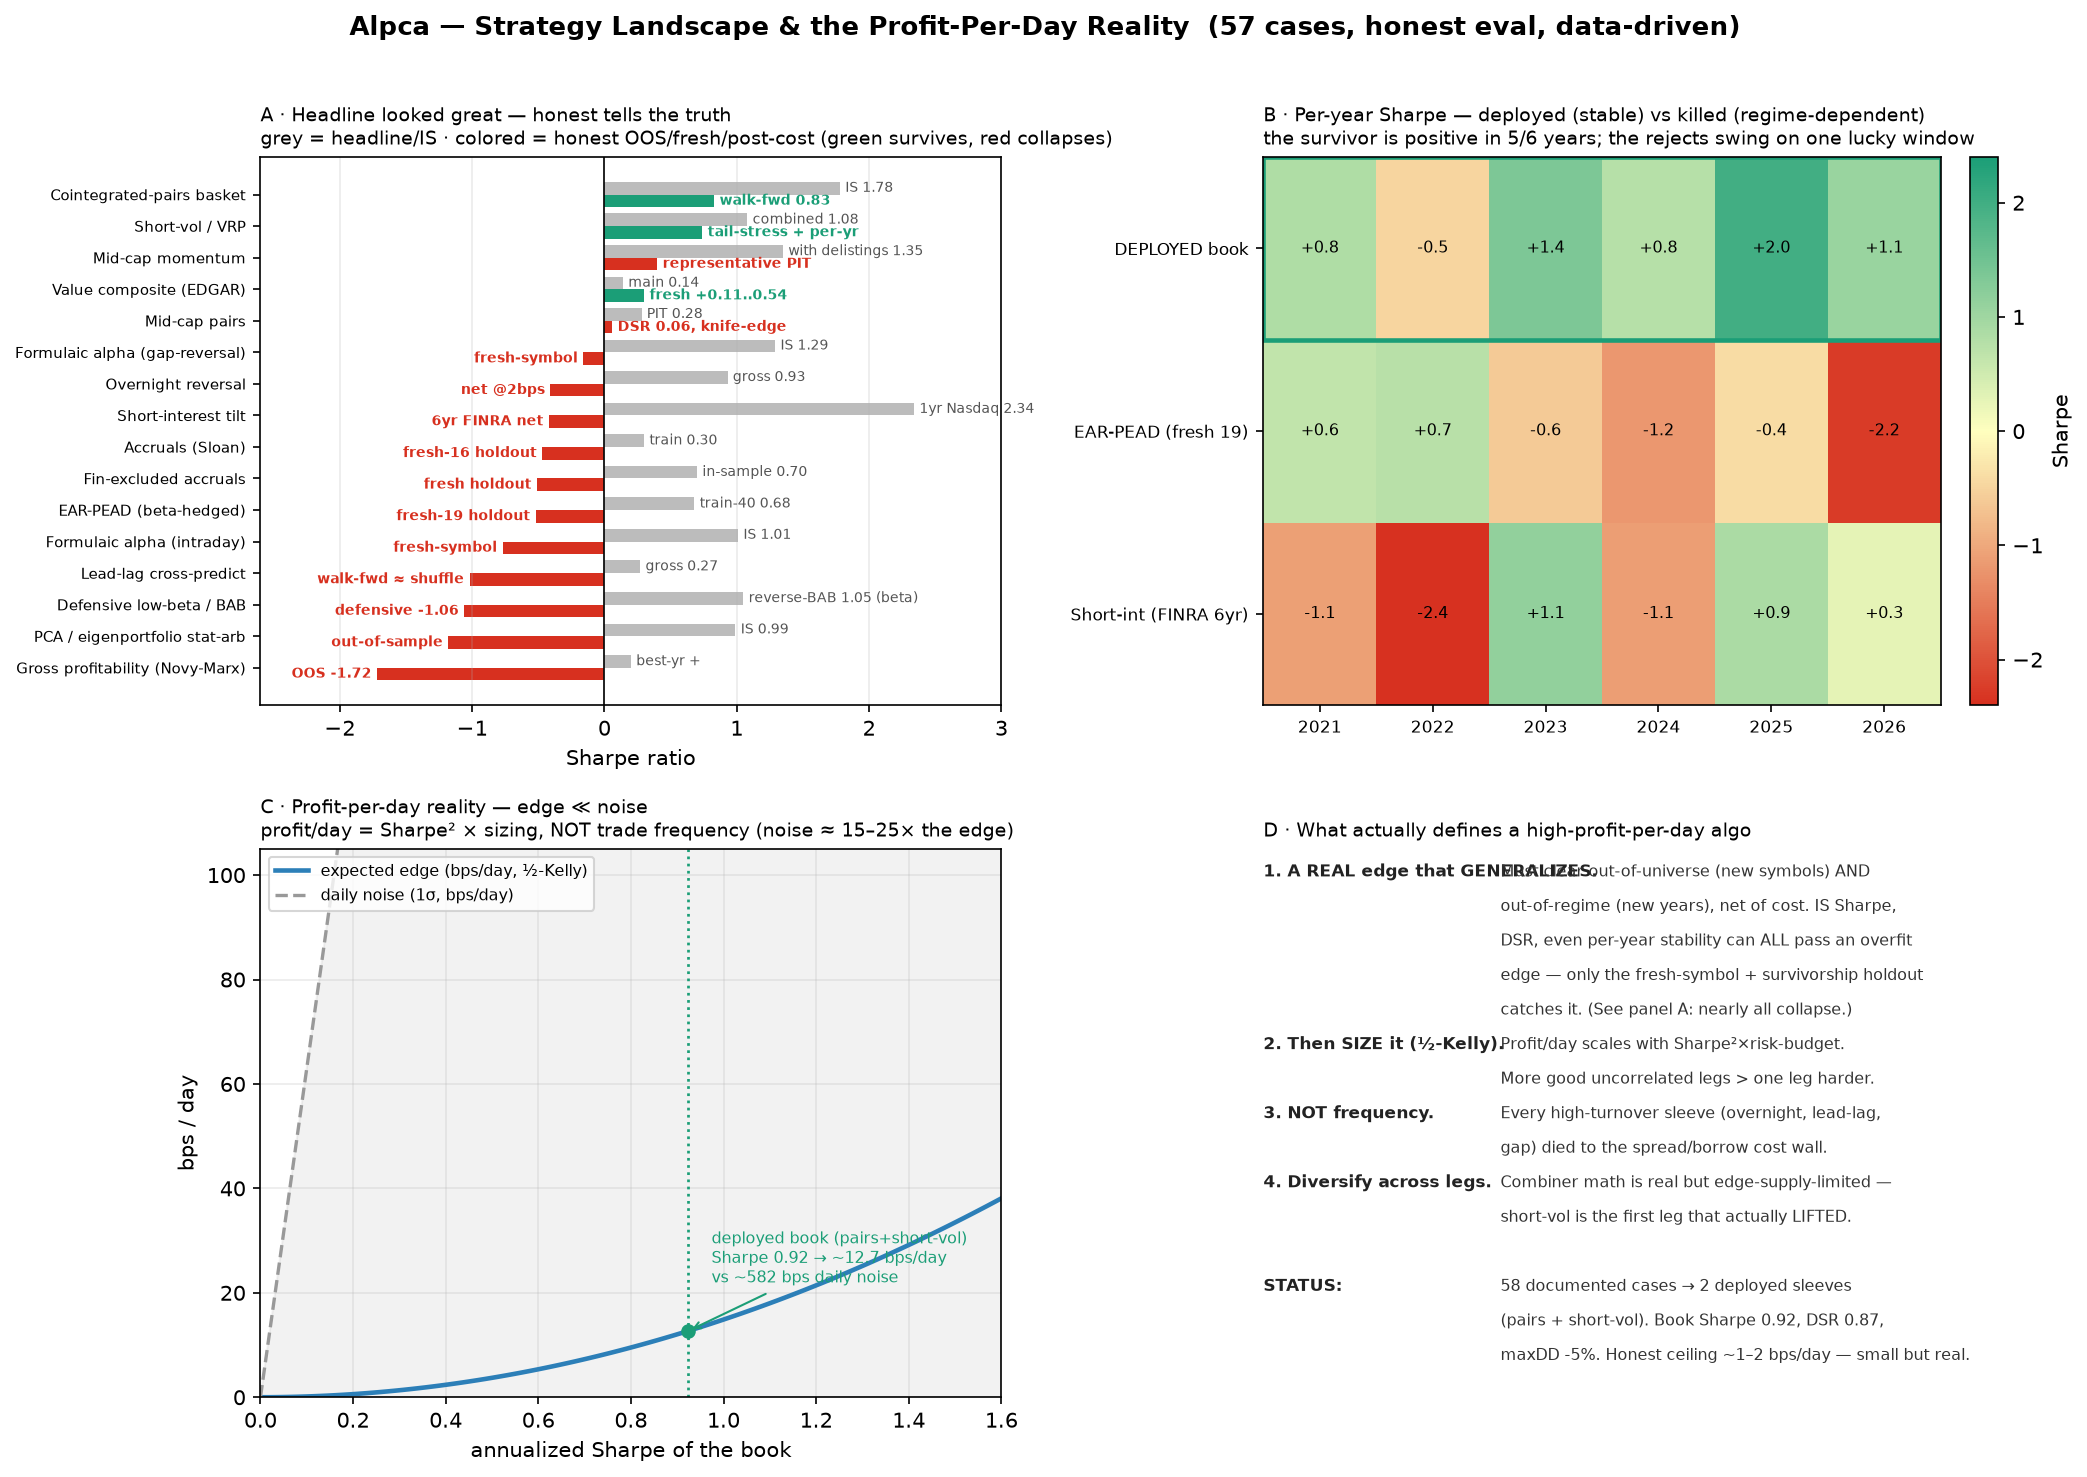
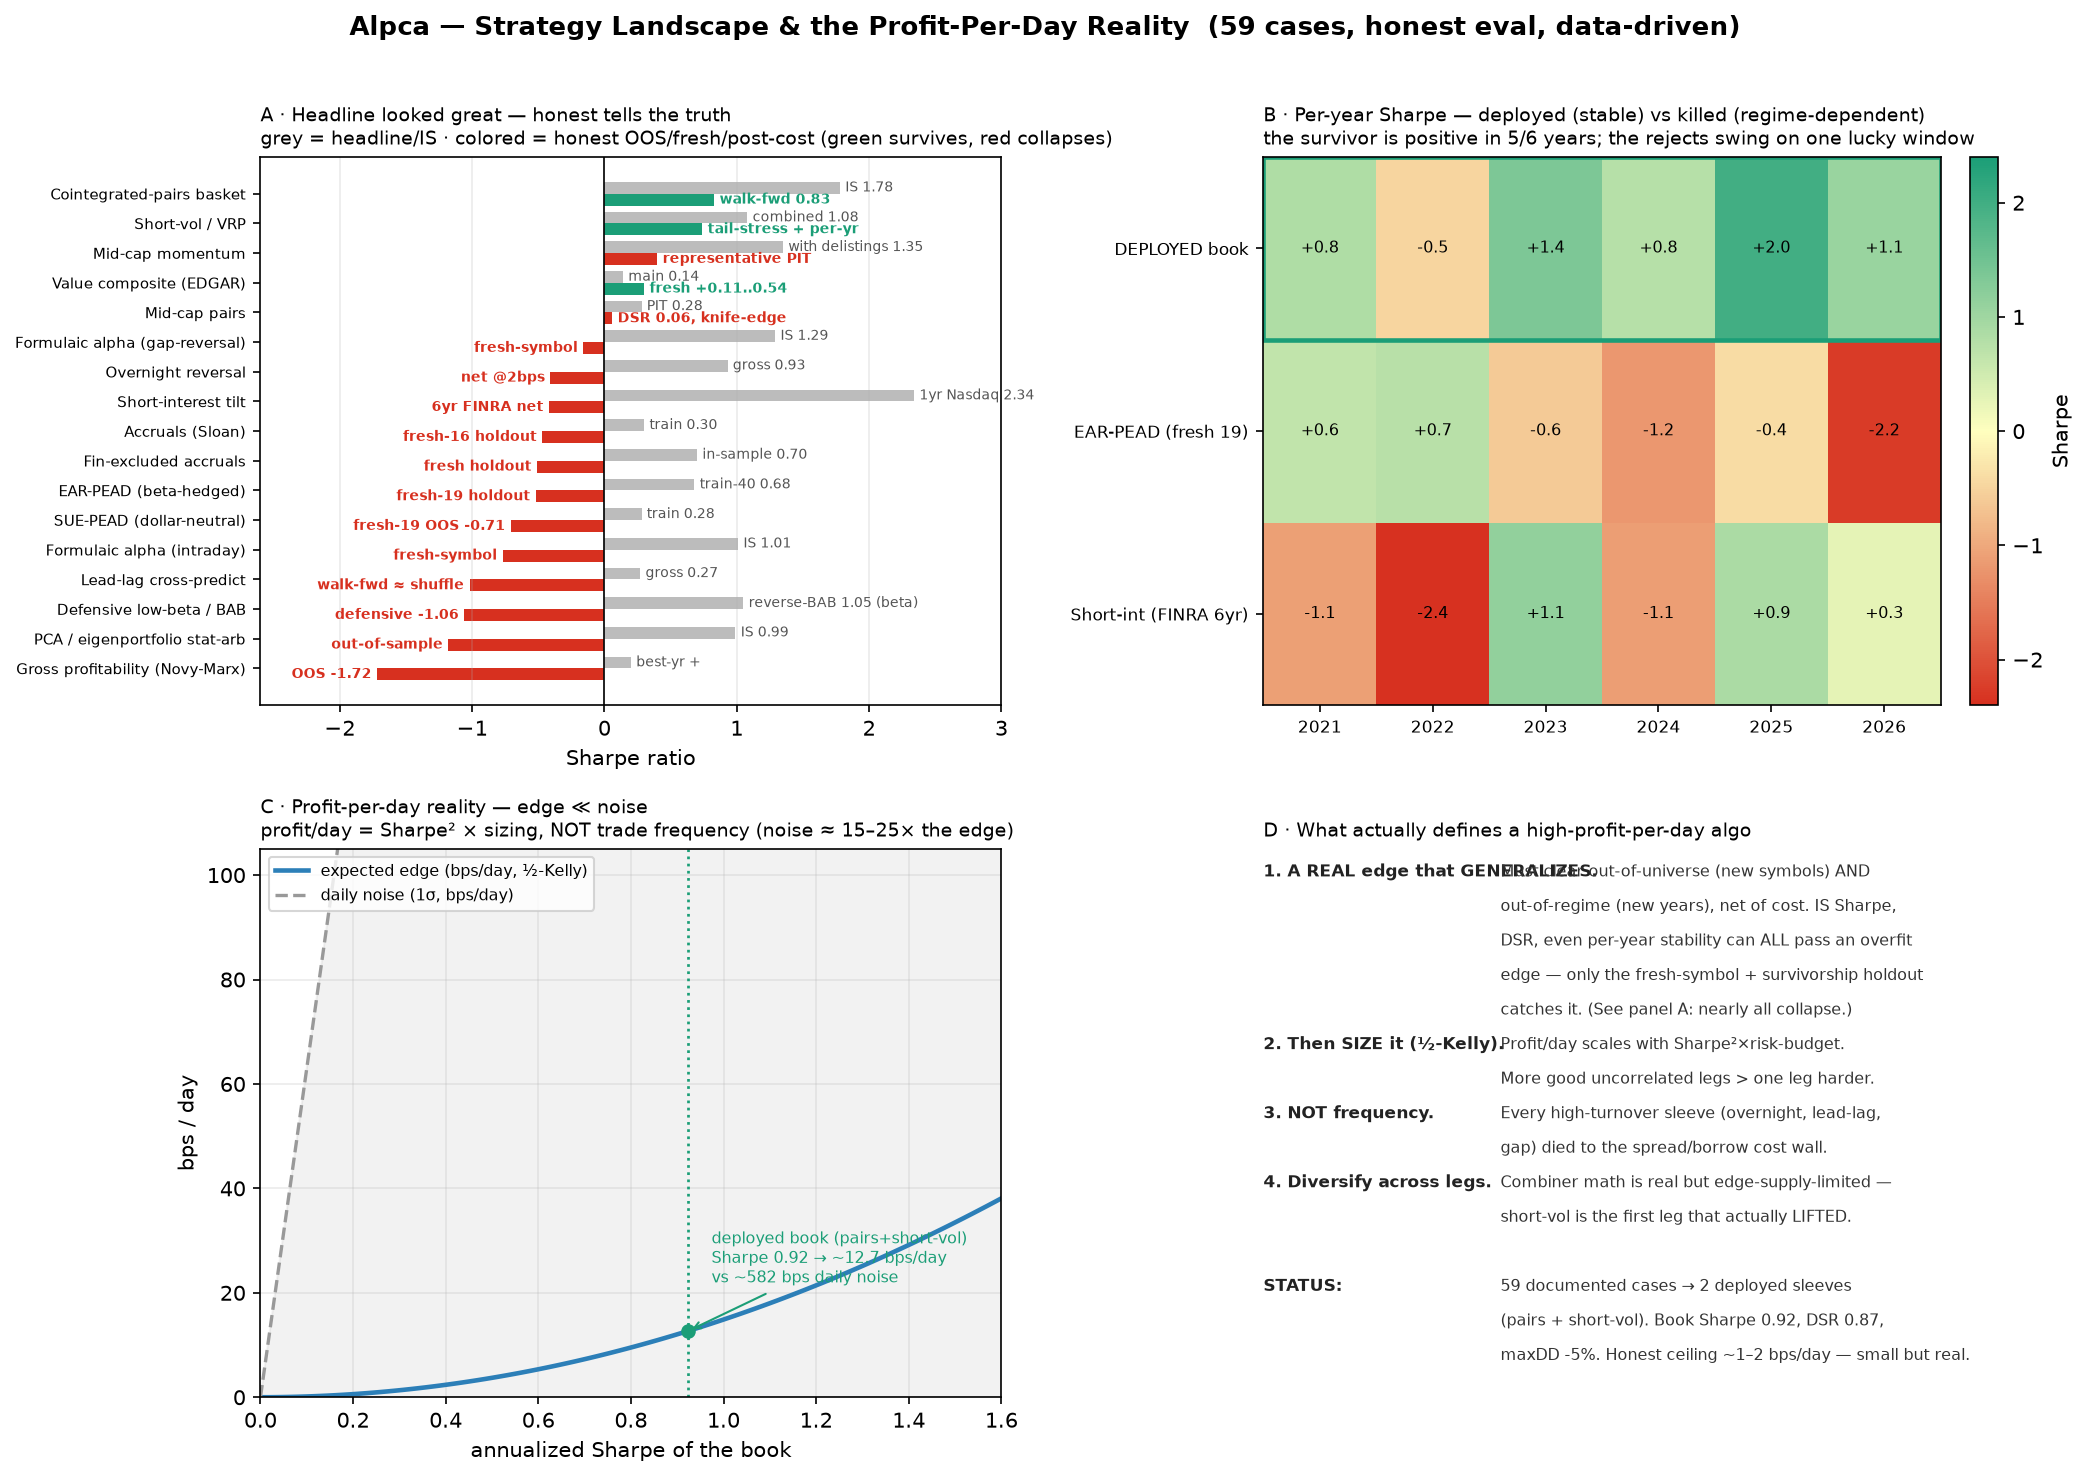
Case 59: PEAD with real SUE = REJECT (SUE is the better signal; still fails fresh-symbol holdout)
Answered the standing open lever (Case 14): real SUE (standardized unexpected
earnings) vs raw surprise_pct, at the now-broader 63-sym/30-yr/6604-event breadth,
under adverse-selection borrow, with the decisive fresh-symbol holdout.

alpca/backtest/pead.py: additive signal_field/borrow_field switch (default
behaviour bit-identical — verified the 0.58 both-leg number reproduces). SUE =
(eps-consensus)/std(firm's own past UE), no-lookahead expanding std.

Result: SUE IS the better signal (dollar-neutral flat-borrow OOS -0.17 -> +0.28;
under adverse borrow 0.22/-0.59 -> 0.28/+0.03) -> keep SUE in the code. BUT the
short leg is still a standalone loser, the both-leg is long-beta-carried, headline
DSR deflates to 0.0, and the FRESH-SYMBOL HOLDOUT kills it: train-63 OOS +0.03 ->
holdout-19 OOS -0.71 (same failure as EAR-PEAD/accruals). 4th PEAD rejection.

scripts/test_pead_sue.py -> data/pead_sue_results.json. Folded into docs: new
Case 59 (EDGE_CASE_STUDIES .md+.docx), edge_funnel (fresh-holdout bucket, 58
classified), holdout_collapse + landscape (SUE-PEAD point, 59 cases), README/
GETTING_STARTED/VERIFICATION_CONTROLS counts 58->59, RESEARCH_CANDIDATES #4 PEAD
and #8 meta-labeling both marked RESOLVED-REJECTED.

Changed region(s): [[0.1557, 0.1246, 0.4983, 0.436], [0.0, 0.1246, 0.1246, 0.4672]]

diff --git a/scripts/test_pead_sue.py b/scripts/test_pead_sue.py
@@ -1,0 +1,178 @@
+"""
+Case 59 — PEAD with REAL SUE (standardized unexpected earnings) vs raw surprise_pct,
+at the now-broader 63-symbol breadth, under the adverse-selection borrow stress, with a
+fresh-symbol holdout (the 19 disjoint names that killed EAR-PEAD in Case 18).
+
+The standing bar (from memory / Case 14): "survive adverse_borrow at FULL breadth + try real
+SUE vs raw surprise_pct." Raw surprise_pct = (eps-consensus)/|consensus| is wildly fat-tailed
+(division by a near-zero consensus explodes it); the academically-correct PEAD signal is SUE =
+(eps - consensus) / std(firm's own past unexpected-earnings) — a clean, comparable z-score.
+
+What this tests:
+  - SUE vs raw surprise as the ranking signal (entry threshold in SUE std-units for SUE).
+  - dollar-neutral ("both") leg under ADVERSE borrow (base 1% -> special 30%, no-locate >200%).
+  - long / short / both decomposition (long is usually beta; alpha must live in short/neutral).
+  - IS/OOS split AND the decisive FRESH-SYMBOL HOLDOUT: same fixed rule on the disjoint 19.
+
+Verdict rule: SUE-PEAD is a CANDIDATE 3rd leg only if the dollar-neutral leg is positive OOS
+*and* survives adverse borrow *and* stays positive on the fresh-19 holdout. Else REJECT.
+
+Run: .venv/bin/python scripts/test_pead_sue.py
+Writes: data/pead_sue_results.json
+"""
+
+from __future__ import annotations
+
+import argparse
+import json
+import statistics
+import sys
+from pathlib import Path
+
+sys.path.insert(0, str(Path(__file__).resolve().parents[1]))
+
+from alpca.backtest.evaluation import (  # noqa: E402
+    deflated_sharpe_ratio, probabilistic_sharpe_ratio, sharpe_of)
+from alpca.backtest.pead import backtest_pead  # noqa: E402
+
+PPY = 252.0
+ADVERSE = {"base": 0.01, "special": 0.30, "sat": 50.0, "no_locate": 200.0}
+
+
+def oos(eq, frac=0.3):
+    sp = int(len(eq) * (1 - frac))
+    return round(sharpe_of(eq[:sp], PPY), 3), round(sharpe_of(eq[sp:], PPY), 3)
+
+
+def add_sue(events, min_priors=4):
+    """No-lookahead SUE per event: UE = eps - consensus; SUE_t = UE_t / std(UE_{<t})
+    over an expanding window (>= min_priors past events). Events before enough history,
+    or missing eps/consensus, simply get no 'sue' field (and are skipped by the backtest)."""
+    evs = sorted([e for e in events if e.get("eps") is not None and e.get("consensus") is not None],
+                 key=lambda e: e["date"])
+    ue_hist = []
+    out = []
+    for e in evs:
+        ue = float(e["eps"]) - float(e["consensus"])
+        if len(ue_hist) >= min_priors:
+            sd = statistics.pstdev(ue_hist)
+            if sd > 0:
+                e = {**e, "sue": ue / sd}
+        ue_hist.append(ue)
+        out.append(e)
+    return out
+
+
+def load(edir: Path, cache: Path):
+    bars_by, ev_raw, ev_sue = {}, {}, {}
+    for ef in edir.glob("*_earnings.json"):
+        sym = ef.name.replace("_earnings.json", "")
+        ev = json.loads(ef.read_text())
+        bf = cache / f"{sym}_1day_bars.jsonl"
+        if ev and bf.exists():
+            bars_by[sym] = [json.loads(l) for l in bf.open() if l.strip()]
+            ev_raw[sym] = ev
+            ev_sue[sym] = add_sue(ev)
+    return bars_by, ev_raw, ev_sue
+
+
+def run(bars_by, events_by, *, signal_field, entry_thr, borrow_field="surprise_pct",
+        adverse=None):
+    out = {}
+    for leg in ("long", "short", "both"):
+        r = backtest_pead(bars_by, events_by, hold=30, entry_thr=entry_thr, leg=leg,
+                          cost_bps=2.0, adverse_borrow=adverse, signal_field=signal_field,
+                          borrow_field=borrow_field, periods_per_year=PPY)
+        is_sh, oos_sh = oos(r.equity_curve)
+        out[leg] = {"sharpe": round(r.sharpe, 3), "is": is_sh, "oos": oos_sh,
+                    "ret": round(r.total_return, 3), "maxdd": round(r.max_drawdown, 3),
+                    "events": r.n_events_used, "no_locate": r.n_no_locate,
+                    "equity": r.equity_curve, "daily": r.daily_returns,
+                    "psr": round(probabilistic_sharpe_ratio(r.equity_curve), 3)}
+    return out
+
+
+def main():
+    ap = argparse.ArgumentParser()
+    ap.add_argument("--cache", default="/Volumes/My Passport/AlpcaData/cache")
+    ap.add_argument("--train", default="/Volumes/My Passport/AlpcaData/earnings_av")
+    ap.add_argument("--holdout", default="/Volumes/My Passport/AlpcaData/earnings_av_holdout")
+    ap.add_argument("--out", default="data/pead_sue_results.json")
+    args = ap.parse_args()
+    cache = Path(args.cache)
+
+    tr_bars, tr_raw, tr_sue = load(Path(args.train), cache)
+    ho_bars, ho_raw, ho_sue = load(Path(args.holdout), cache)
+    n_sue_ev = sum(1 for s in tr_sue for e in tr_sue[s] if "sue" in e)
+    print(f"[ok] train {len(tr_bars)} syms / holdout {len(ho_bars)} syms · "
+          f"{n_sue_ev} train events have SUE\n")
+
+    results = {}
+    configs = [
+        ("RAW surprise_pct  thr2.0  flat-borrow",  tr_raw, "surprise_pct", 2.0, None),
+        ("RAW surprise_pct  thr2.0  ADVERSE",      tr_raw, "surprise_pct", 2.0, ADVERSE),
+        ("SUE               thr1.0  flat-borrow",  tr_sue, "sue", 1.0, None),
+        ("SUE               thr1.0  ADVERSE",      tr_sue, "sue", 1.0, ADVERSE),
+        ("SUE               thr1.5  ADVERSE",      tr_sue, "sue", 1.5, ADVERSE),
+    ]
+    print(f"{'config':<42}{'long':>7}{'short':>7}{'both':>7}{'both-OOS':>10}{'PSR':>6}{'noLoc':>7}")
+    print("-" * 86)
+    both_sharpes = []
+    for name, ev, fld, thr, adv in configs:
+        r = run(tr_bars, ev, signal_field=fld, entry_thr=thr, adverse=adv)
+        results[name] = r
+        both_sharpes.append(r['both']['sharpe'])
+        print(f"{name:<42}{r['long']['sharpe']:>7.2f}{r['short']['sharpe']:>7.2f}"
+              f"{r['both']['sharpe']:>7.2f}{r['both']['oos']:>10.2f}{r['both']['psr']:>6.2f}"
+              f"{r['both']['no_locate']:>7}")
+    # DSR for the headline SUE-adverse config, deflated by the variance across the configs searched
+    sv = statistics.pvariance(both_sharpes) if len(both_sharpes) > 1 else 1e-5
+    sue_eq = results["SUE               thr1.0  ADVERSE"]["both"]["equity"]
+    headline_dsr = round(deflated_sharpe_ratio(sue_eq, n_trials=len(configs), sharpe_variance=sv or 1e-5), 3)
+    print(f"\nSUE-adverse headline DSR (deflated over {len(configs)} configs): {headline_dsr}")
+
+    # ---- decisive: fresh-symbol holdout with the SAME fixed SUE rule, adverse borrow ----
+    print("\n" + "=" * 86)
+    print("FRESH-SYMBOL HOLDOUT (19 disjoint names) — SUE thr1.0, ADVERSE borrow")
+    print("-" * 86)
+    ho = run(ho_bars, ho_sue, signal_field="sue", entry_thr=1.0, adverse=ADVERSE)
+    results["HOLDOUT_sue_adverse"] = ho
+    tr_best = run(tr_bars, tr_sue, signal_field="sue", entry_thr=1.0, adverse=ADVERSE)
+    print(f"{'TRAIN-63  both':<28}{tr_best['both']['sharpe']:>7.2f}  OOS {tr_best['both']['oos']:>6.2f}"
+          f"  short {tr_best['short']['sharpe']:>6.2f}")
+    print(f"{'HOLDOUT-19 both':<28}{ho['both']['sharpe']:>7.2f}  OOS {ho['both']['oos']:>6.2f}"
+          f"  short {ho['short']['sharpe']:>6.2f}")
+
+    # verdict
+    sue_adv = results["SUE               thr1.0  ADVERSE"]["both"]
+    raw_adv = results["RAW surprise_pct  thr2.0  ADVERSE"]["both"]
+    sue_beats_raw = sue_adv["sharpe"] > raw_adv["sharpe"] + 0.05
+    survives_adverse = sue_adv["sharpe"] > 0.20 and sue_adv["oos"] > 0.0
+    generalizes = ho["both"]["sharpe"] > 0.0 and ho["both"]["oos"] > 0.0
+    candidate = sue_beats_raw and survives_adverse and generalizes
+    verdict = ("CANDIDATE — SUE-PEAD survives adverse borrow AND generalizes to fresh symbols"
+               if candidate else
+               "REJECT — does not clear survive-adverse-borrow + fresh-symbol-holdout bar")
+    print("\n" + "=" * 86)
+    print(f"SUE beats raw (adverse): {sue_beats_raw} | survives adverse OOS+: {survives_adverse} "
+          f"| generalizes (fresh-19): {generalizes}")
+    print(f"VERDICT: {verdict}")
+
+    results["_verdict"] = {"sue_beats_raw": sue_beats_raw, "survives_adverse": survives_adverse,
+                           "generalizes": generalizes, "candidate": bool(candidate),
+                           "verdict": verdict, "headline_dsr": headline_dsr,
+                           "n_train": len(tr_bars), "n_holdout": len(ho_bars),
+                           "n_sue_events": n_sue_ev}
+    # strip bulky equity/daily arrays before persisting
+    for cfg in results.values():
+        if isinstance(cfg, dict):
+            for leg in cfg.values():
+                if isinstance(leg, dict):
+                    leg.pop("equity", None)
+                    leg.pop("daily", None)
+    Path(args.out).write_text(json.dumps(results, indent=2))
+    print(f"\n[meta] wrote {args.out}")
+
+
+if __name__ == "__main__":
+    main()

diff --git a/alpca/backtest/pead.py b/alpca/backtest/pead.py
@@ -50,6 +50,8 @@ def backtest_pead(
     borrow_apr=0.0,
     no_borrow=None,
     adverse_borrow=None,
+    signal_field: str = "surprise_pct",
+    borrow_field: Optional[str] = None,
     starting_equity: float = 100_000.0,
     periods_per_year: float = 252.0,
 ) -> PEADResult:
@@ -111,13 +113,20 @@ def backtest_pead(
                 ret[idx[ts[k]], j] = (cl[k] - cl[k - 1]) / cl[k - 1]
         # place each event's drift position
         for ev in events_by_sym[s]:
-            surp = ev.get("surprise_pct")
-            if surp is None or abs(surp) < entry_thr:
+            # SIGNAL: rank/threshold/direction off `signal_field` (default raw surprise_pct;
+            # set to "sue" for standardized unexpected earnings). BORROW magnitude stays in
+            # surprise_pct units (the adverse model's sat/no_locate are calibrated in %), via
+            # `borrow_field` (defaults to surprise_pct) so the SUE signal doesn't rescale it.
+            sig = ev.get(signal_field)
+            if sig is None or abs(sig) < entry_thr:
                 continue
-            sign = 1.0 if surp > 0 else -1.0
+            sign = 1.0 if sig > 0 else -1.0
+            bmag = ev.get(borrow_field or "surprise_pct", sig)
+            if bmag is None:
+                bmag = sig
             if sign < 0 and s in no_borrow:
                 continue                       # no locate available -> can't short this name
-            if sign < 0 and ab is not None and abs(surp) >= ab["no_locate"]:
+            if sign < 0 and ab is not None and abs(bmag) >= ab["no_locate"]:
                 n_no_locate += 1               # adverse selection: this crowded short went no-locate
                 continue
             # require the report to fall INSIDE this symbol's price window — else there's no
@@ -132,7 +141,7 @@ def backtest_pead(
             if entry_k >= len(ts):
                 continue
             n_used += 1
-            ev_rate = _adverse_rate(abs(surp)) if (sign < 0 and ab is not None) else 0.0
+            ev_rate = _adverse_rate(abs(bmag)) if (sign < 0 and ab is not None) else 0.0
             for k in range(entry_k, min(entry_k + hold, len(ts))):
                 pos[idx[ts[k]], j] = sign
                 if ev_rate:

diff --git a/scripts/plot_strategy_landscape.py b/scripts/plot_strategy_landscape.py
@@ -121,7 +121,7 @@ def panel_c(ax):
 def panel_d(ax):
     ax.axis("off")
     ax.set_title("D · What actually defines a high-profit-per-day algo", fontsize=9.3, loc="left")
-    n_total = 58
+    n_total = 59
     n_surv = sum(1 for r in REC if r["survives"] and r["kill"] == "deployed")
     lines = [
         ("1. A REAL edge that GENERALIZES.", "Must clear out-of-universe (new symbols) AND"),
@@ -151,7 +151,7 @@ def panel_d(ax):
 def main():
     fig, axes = plt.subplots(2, 2, figsize=(14, 10))
     panel_a(axes[0, 0]); panel_b(axes[0, 1]); panel_c(axes[1, 0]); panel_d(axes[1, 1])
-    fig.suptitle("Alpca — Strategy Landscape & the Profit-Per-Day Reality  (57 cases, honest eval, data-driven)",
+    fig.suptitle("Alpca — Strategy Landscape & the Profit-Per-Day Reality  (59 cases, honest eval, data-driven)",
                  fontsize=12.5, fontweight="bold")
     fig.tight_layout(rect=[0, 0, 1, 0.97])
     out = ROOT / "docs" / "strategy_landscape.png"

diff --git a/scripts/plot_edge_funnel.py b/scripts/plot_edge_funnel.py
@@ -42,7 +42,7 @@ BUCKETS = {
     },
     "Fresh-symbol holdout (out-of-universe)": {
         "color": RED,
-        "cases": [18, 23, 35, 55],
+        "cases": [18, 23, 35, 55, 59],
         "note": "passed in-universe, collapsed on disjoint new symbols",
     },
     "Cost / borrow wall": {

diff --git a/docs/EDGE_CASE_STUDIES.md b/docs/EDGE_CASE_STUDIES.md
@@ -1497,3 +1497,36 @@ capital, and the bar for "validated" is now explicitly out-of-universe + out-of-
   and the one number that looked good (τ=0.60) was unmasked as a count-reduction artifact by the
   AUC. The pairs basket stays deployed **as-is** — there is no conviction-filter to bolt on.
   (`scripts/test_meta_labeling.py` → `data/meta_labeling_results.json`.)
+
+## Case 59 — PEAD with REAL SUE (standardized unexpected earnings) ❌ (SUE *is* the better signal — and PEAD still fails the fresh-symbol holdout a 4th time)
+
+- **The standing question (from Cases 14/18).** PEAD's long leg is beta and its single-name short
+  leg dies to adverse-selection borrow; it was held open on one explicit lever: *try **real SUE**
+  vs raw `surprise_pct` at full breadth.* Raw surprise_pct = (eps−consensus)/|consensus| is wildly
+  fat-tailed (a near-zero consensus explodes it); the academically-correct PEAD signal is
+  **SUE = (eps − consensus) / std(the firm's own past unexpected earnings)** — a clean, comparable
+  z-score. The AlphaVantage earnings cache has since grown to **63 symbols × ~30 years (6,604 events
+  with computable SUE)**, broad enough to test it.
+- **Method.** Added an additive `signal_field`/`borrow_field` switch to `backtest_pead` (default
+  behaviour bit-identical — verified the prior surprise_pct numbers reproduce exactly). Computed SUE
+  per event with a **no-lookahead expanding std** (≥4 priors). Ran long/short/dollar-neutral under
+  **flat and adverse-selection borrow**, IS/OOS split, and — decisively — the **fresh-symbol holdout**
+  on the **19 disjoint names** that killed EAR-PEAD in Case 18.
+- **Result — SUE genuinely beats raw, but it isn't enough.**
+  - **SUE is the better signal (question answered).** Dollar-neutral, flat-borrow: raw OOS **−0.17**
+    → **SUE OOS +0.28**. Under adverse borrow: raw both **0.22 / OOS −0.59** → SUE both **0.28 /
+    OOS +0.03**. Standardizing the surprise cleans up the fat tails and modestly survives borrow
+    where raw collapses. This closes the open lever: **use SUE, not raw surprise_pct.**
+  - **But the short leg is still a standalone loser** (−0.24 under adverse borrow, 28 no-locate
+    drops) and the dollar-neutral "both" leg is carried by the **long (beta)** leg (long 0.60–1.03).
+    The SUE-adverse headline **DSR deflates to 0.0** once you account for the threshold search.
+  - **The fresh-symbol holdout kills it.** Same fixed SUE rule, adverse borrow: **TRAIN-63 both 0.28
+    / OOS +0.03 → HOLDOUT-19 both 0.19 / OOS −0.71**, short −0.71. The edge **does not generalize to
+    disjoint symbols** — the identical failure mode as EAR-PEAD (Case 18) and accruals (Case 23).
+- **Verdict.** ❌ **REJECT — the SUE lever is now closed.** Real SUE is a real improvement over raw
+  surprise_pct (worth keeping in the code), but PEAD's dollar-neutral edge remains **thin,
+  long-beta-carried, short-leg-fragile under adverse borrow, and non-generalizing across symbols.**
+  This is the **4th independent rejection** of the PEAD family (raw Case 14, EAR-hedged Case 18,
+  3rd-leg re-test Case 55, SUE Case 59). PEAD is not the uncorrelated third leg; the deployed book
+  (pairs + short-vol) stands. (`scripts/test_pead_sue.py` → `data/pead_sue_results.json`; additive
+  `signal_field`/`borrow_field` in `alpca/backtest/pead.py`.)

diff --git a/docs/RESEARCH_CANDIDATES.md b/docs/RESEARCH_CANDIDATES.md
@@ -17,24 +17,23 @@ cross-sectional crypto long-short basket is infeasible here regardless of publis
 | 1 | Overnight-vs-intraday premium (buy-close/sell-open) | Alpaca bars ✓ | **MARGINAL→INFEASIBLE** | Largely a bid-ask-bounce / open-print **artifact**; dies to taker cost twice daily |
 | 2 | Pre-FOMC announcement drift | SPY + FOMC calendar ✓ | **FEASIBLE** (~8 trades/yr) | Real but **decaying post-2011**; risk-reduced tilt, not standalone alpha |
 | 3 | Turn-of-month (TOM) effect | SPY bars ✓ | **FEASIBLE** (~12 rt/yr) | Old, arbitraged; diversifying overlay, likely < B&H absolute return |
-| 4 | **PEAD long-short** (earnings surprise) | Finnhub free + Alpaca ✓ | **MARGINAL→FEASIBLE** | The one genuinely fundamental, market-neutral, diversifying shot; decayed since ~2005 |
+| 4 | ~~**PEAD long-short** (earnings surprise)~~ | AlphaVantage ✓ | ❌ **RESOLVED — REJECTED** | Tested 4× (Cases 14, 18, 55, **59**). Real **SUE** *is* the better signal (flips dollar-neutral OOS −0.17→+0.28) but the edge is long-beta-carried, short-leg dies to adverse borrow, and **fails the fresh-symbol holdout** (train OOS +0.03 → fresh-19 OOS −0.71). Not the 3rd leg. |
 | 5 | Betting-Against-Beta / low-vol | Alpaca bars ✓ | **MARGINAL** | Un-levered = risk-reduced beta (like rsi-mr), not a beater; needs leverage we lack |
 | 6 | Vol-target / risk-parity overlay | Alpaca bars ✓ | **FEASIBLE** as overlay | Drawdown insurance on the beta sleeve; **already half-rejected as alpha** (Kim 2016) |
 | 7 | VIX term-structure regime timing (SVXY) | CBOE/Yahoo ^VIX/^VIX3M ✓ | **MARGINAL** | Short-vol tail trap — Sharpe-test actively **misleads**; only with a CVaR/tail gate |
-| 8 | **Meta-labeling** (triple-barrier) on our basket | none (runs on signals) ✓ | **FEASIBLE**, low-risk | Can only *filter* our 0.54 basket; fewer trades may wash out the gain, downside bounded |
+| 8 | ~~**Meta-labeling** (triple-barrier) on our basket~~ | none (runs on signals) ✓ | ❌ **RESOLVED — REJECTED** | Case 58: meta-model OOS AUC **0.379** (anti-predictive, below its shuffle placebo 0.46) = zero skill; the τ=0.60 "lift" was a trade-count-cut mirage. Pairs stays deployed as-is. |
 | 9 | ETF relative-value via Box-Tiao / min-half-life | Alpaca sector ETFs ✓ | **MARGINAL** | Same family we rejected; optimizing half-life is a **stronger overfit magnet** |
 | 10 | Cross-asset / lead-lag (BTC→ETH, crypto X-section) | Alpaca BTC/ETH ✓ | **INFEASIBLE** | Needs a coin cross-section + shorting; 2 long-only coins too narrow — **dead** |
 | 11 | Cross-sectional crypto factor/reversal basket | needs coin X-section ✗ | **INFEASIBLE** | Long-only 2-coin venue cannot implement it — **dead** |
 
 ## Top 3 to build next (scout's ranking, by expected value)
 
-1. **PEAD cross-sectional long-short** (free Finnhub earnings surprise + Alpaca bars).
-   *Why it might survive where price-only strategies didn't:* the only **fundamental,
-   event-driven, dollar-neutral** idea here — orthogonal to both long-beta and our price-
-   mean-reversion pairs basket, so it **diversifies** the one survivor instead of duplicating
-   it. Most-replicated anomaly in finance, 30-yr backtests, free data now exists. Real risks:
-   post-2005 decay, paper-shorting realism. Build L/S, report strictly OOS, judge the short
-   leg separately.
+1. ~~**PEAD cross-sectional long-short**~~ — ❌ **RESOLVED (Case 59): REJECTED.** Built it at
+   63-symbol / 30-yr breadth with **real SUE** (the one untried lever). SUE beats raw surprise,
+   but the dollar-neutral edge is thin, long-beta-carried, short-leg dies to adverse borrow, and
+   **fails the fresh-symbol holdout** (fresh-19 OOS −0.71). 4th PEAD rejection. ~~Meta-labeling
+   (#8)~~ also **RESOLVED (Case 58): REJECTED** (no OOS skill). Both lowest-hanging candidates
+   are now closed.
 
 2. **Seasonality overlay basket** = pre-FOMC drift + turn-of-month (+ optional overnight).
    *Why it might survive:* our prior failures all died to **overtrading costs** — these die

diff --git a/README.md b/README.md
@@ -36,7 +36,7 @@ half-Kelly. See `docs/STATE_OF_THE_PROGRAM.docx` and `docs/VERIFICATION_CONTROLS
 
 ## Results at a glance
 
-The denominator is the point: **58 documented case studies → 2 deployed sleeves.** Four graphics
+The denominator is the point: **59 documented case studies → 2 deployed sleeves.** Four graphics
 tell the whole story (regenerate any with `.venv/bin/python scripts/plot_*.py`):
 
 | Graphic | What it shows |
@@ -47,7 +47,7 @@ tell the whole story (regenerate any with `.venv/bin/python scripts/plot_*.py`):
 | ![deployed](docs/deployed_results.png) | **`docs/deployed_results.png`** — the live book: per-year Sharpe + near-zero leg correlations |
 
 Full write-ups: `docs/VERIFICATION_CONTROLS.md` (the anti-overfit machinery) and
-`docs/EDGE_CASE_STUDIES.md` (all 58 cases) · `docs/Alpca_Discovery_and_HFT_Assessment.docx`.
+`docs/EDGE_CASE_STUDIES.md` (all 59 cases) · `docs/Alpca_Discovery_and_HFT_Assessment.docx`.
 
 ## What's in the box
 

diff --git a/docs/GETTING_STARTED_WITH_AI.md b/docs/GETTING_STARTED_WITH_AI.md
@@ -79,7 +79,7 @@ pytest -q
 | You want…                              | Look at…                                            |
 |----------------------------------------|-----------------------------------------------------|
 | The honest one-page summary            | `docs/STATE_OF_THE_PROGRAM.md`                      |
-| Every edge we tested + why it passed/failed | `docs/EDGE_CASE_STUDIES.md` (58 case studies)  |
+| Every edge we tested + why it passed/failed | `docs/EDGE_CASE_STUDIES.md` (59 case studies)  |
 | The evaluation harness (the point)     | `alpca/backtest/evaluation.py`                      |
 | The 34 strategies                      | `alpca/strategies/`                                 |
 | Market-neutral pairs / cross-sectional | `alpca/backtest/pairs.py`, `cross_sectional.py`     |

diff --git a/docs/VERIFICATION_CONTROLS.md b/docs/VERIFICATION_CONTROLS.md
@@ -123,4 +123,4 @@ Per-day profit targeting is noise-mining; the edge compounds slowly and only bec
 
 *Companion artifacts: `docs/edge_funnel.png` (this catalog, visualized), `docs/strategy_landscape.png`
 (the overfit catch), `docs/deployed_results.png` (the live book), `docs/EDGE_CASE_STUDIES.md`
-(all 58 cases in full).*
+(all 59 cases in full).*